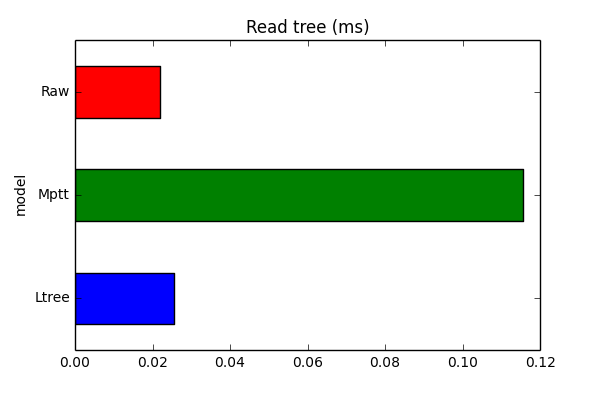
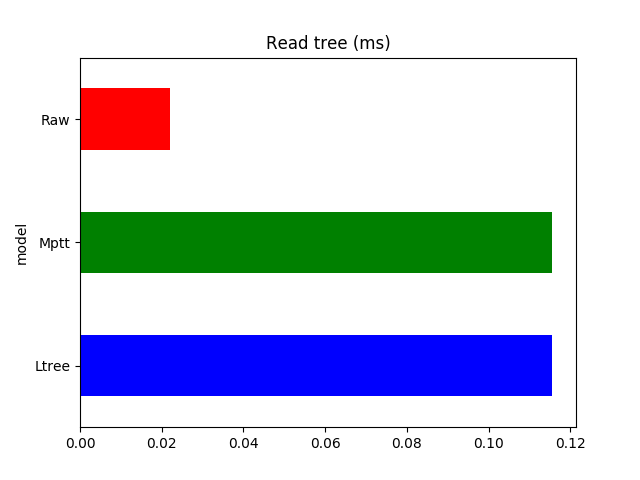
обновлена статистка считывания дерева по комментарию (https://habrahabr.ru/post/329204/#comment_10228612)

Changed region(s): [[0.0, 0.03, 0.93, 0.96]]

diff --git a/tree_app/statistics.py b/tree_app/statistics.py
@@ -17,7 +17,12 @@ TIME_FIELD = "time"
 def read_tree_time(model):
     # т.к. используется "ленивая" модель запросов, то чтобы запрос отправиля в базу
     # он преобразуется в список
-    list(model.objects.all())
+    if model.__name__ == "Raw":
+        list(model.objects.all().order_by("parent_id"))
+    elif model.__name__ == "Ltree":
+        list(model.objects.all().order_by("path"))
+    else:
+        list(model.objects.all())
 
     result = {
         MODEL_FIELD: model.__name__,
